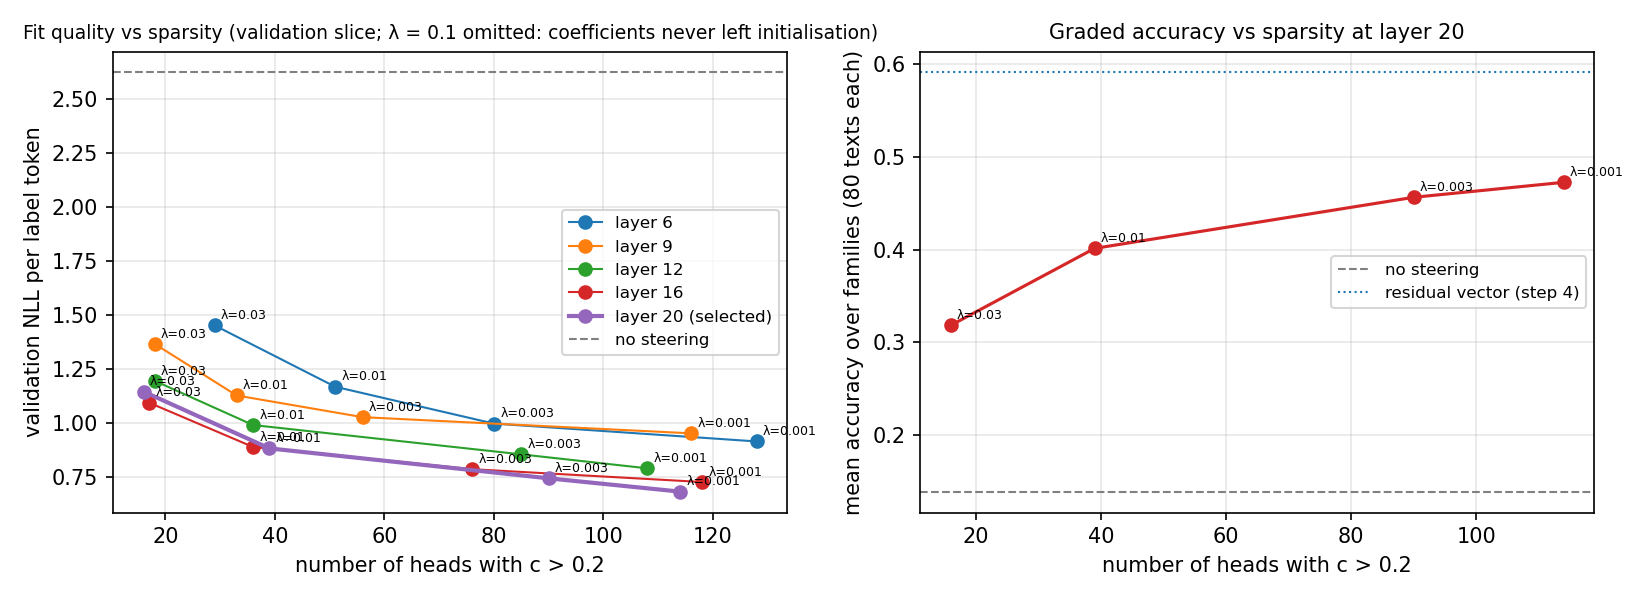
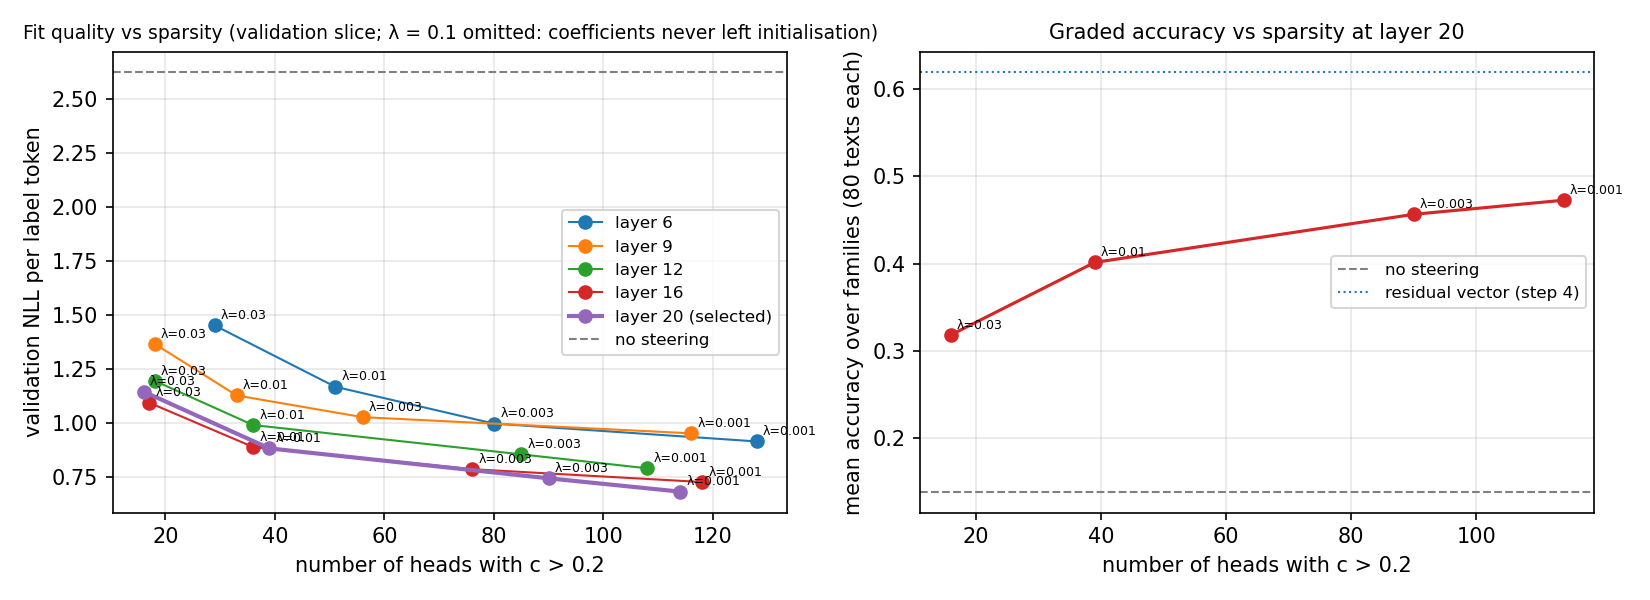
sparse_heads: re-analysed against the paired step-4 residual vectors (figures, csv, README comparison updated)

diff --git a/results/style_translation/sparse_heads/README.md b/results/style_translation/sparse_heads/README.md
@@ -51,45 +51,49 @@ heads. Validation NLL per label token 2.62 (unsteered) → 0.68; test 2.61 → 0
 kept the epoch-0 coefficients, all ≈ 0.5) and are excluded from the curves.
 
 **Accuracy on the 80 held-out texts per family, alt direction** (`sparse_summary.csv`; k4 = 4 in-context
-examples, resid = step-4 residual vector at its per-family best (L, α), both on the same 80 texts):
+examples, resid = step-4 residual mean-difference vector — PAIRED version, 2026-09-10 — at its per-family best (L, α), both on the same 80 texts):
 
 | family | unsteered | sparse 114 heads | unweighted | other family | resid (step 4) | k4 |
 |---|---|---|---|---|---|---|
-| sentence_caps | .00 | .19 | .21 | .00 | .26 | .65 |
-| all_caps | .00 | .06 | .05 | .00 | .10 | .44 |
-| double_space | .00 | .45 | .38 | .00 | .65 | .75 |
-| us_uk | .11 | .64 | .68 | .74 | .60 | .56 |
-| ise_ize | .06 | **.79** | .60 | .24 | .61 | .57 |
-| brit_t_past | .09 | .25 | .19 | .07 | .19 | .24 |
-| whilst | .00 | .75 | .71 | .00 | .88 | .54 |
-| contractions | .36 | .62 | .53 | .29 | .76 | .72 |
-| ampersand | .01 | .55 | .51 | .00 | .82 | .61 |
+| sentence_caps | .00 | .19 | .21 | .00 | .17 | .65 |
+| all_caps | .00 | .06 | .05 | .00 | .03 | .44 |
+| double_space | .00 | .45 | .38 | .00 | .66 | .75 |
+| us_uk | .11 | .64 | .68 | .74 | .61 | .56 |
+| ise_ize | .06 | **.79** | .60 | .24 | .72 | .57 |
+| brit_t_past | .09 | .25 | .19 | .07 | .45 | .24 |
+| whilst | .00 | .75 | .71 | .00 | .90 | .54 |
+| contractions | .36 | .62 | .53 | .29 | .80 | .72 |
+| ampersand | .01 | .55 | .51 | .00 | .81 | .61 |
 | oxford_comma | .61 | .75 | .85 | .71 | .85 | .72 |
-| curly_quotes | .14 | **.36** | .39 | .05 | .23 | .68 |
-| quote_punct | .40 | .57 | .56 | .50 | .62 | .81 |
-| em_dash | .04 | .45 | .45 | .00 | .50 | .65 |
-| ellipsis | .01 | .55 | .68 | .10 | .69 | .68 |
-| num_words | .07 | .25 | .24 | .09 | .71 | .31 |
-| percent_sign | .07 | .75 | .81 | .11 | .84 | .79 |
+| curly_quotes | .14 | **.36** | .39 | .05 | .28 | .68 |
+| quote_punct | .40 | .57 | .56 | .50 | .61 | .81 |
+| em_dash | .04 | .45 | .45 | .00 | .53 | .65 |
+| ellipsis | .01 | .55 | .68 | .10 | .79 | .68 |
+| num_words | .07 | .25 | .24 | .09 | .70 | .31 |
+| percent_sign | .07 | .75 | .81 | .11 | .88 | .79 |
 | ordinal_words | .38 | .51 | .45 | .29 | .74 | .64 |
-| **mean** | .14 | **.50** | .49 | .19 | .59 | .61 |
+| **mean** | .14 | **.50** | .49 | .19 | .62 | .61 |
 
 1. **One shared set of 114 heads, summed and injected once at the cue token, induces the rare
    convention in most families with no example**: mean accuracy .14 → .50 (unweighted indicator sum
    .49, so the learned weights matter little once the set is chosen). It matches or beats 4 in-context
    examples in 5 families (ise_ize .79 vs .57, whilst .75 vs .54, us_uk .64 vs .56, oxford_comma .75
-   vs .72, brit_t_past .25 vs .24) and is within .05 of the per-family-tuned residual vector in 7.
-2. **Versus the residual mean-difference vector (step 4): lower style forcing, better translations.**
-   The sparse heads use the target convention less often (style-only .64 vs .79 averaged over
-   families) but keep the judge rate at the unsteered level (.76 vs .73; unsteered .78). They win
-   clearly on ise_ize (.79 vs .61), curly_quotes (.36 vs .23; unscorable .25 vs .56 — the heads
-   produce the two-token “ more often than the residual vector) and brit_t_past (.25 vs .19), tie on
-   us_uk / all_caps / em_dash / quote_punct / sentence_caps, and lose by > .10 on ampersand (.55 vs
-   .82), num_words (.25 vs .71), ordinal_words (.51 vs .74), double_space (.45 vs .65), contractions,
-   ellipsis and whilst — the symbol / digit conventions, where the residual vector's per-family α = 4
-   push was decisive. Caveat: the residual comparison is per-family tuned (best of 45 (L, α) cells per
-   family) whereas the sparse set is one shared vector at one layer with α = 1 and was chosen by
-   validation NLL, not by accuracy.
+   vs .72, brit_t_past .25 vs .24) and is within .05 of the per-family-tuned residual vector in 4
+   (sentence_caps, all_caps, us_uk, quote_punct).
+2. **Versus the residual mean-difference vector (step 4, paired vectors): lower style forcing, better
+   translations, lower accuracy.** Mean accuracy .50 vs .62 (residual) on the same 80 texts. The sparse
+   heads use the target convention less often (style-only .64 vs .82 averaged over families) but keep
+   the judge rate at the unsteered level (.76 vs .72; unsteered .78). They win on ise_ize (.79 vs .72)
+   and curly_quotes (.36 vs .28; unscorable .25 vs .56 — the heads produce the two-token “ more often
+   than the residual vector), tie within .05 on sentence_caps / all_caps / us_uk / quote_punct, and lose
+   by > .10 on double_space (.45 vs .66), brit_t_past (.25 vs .45), whilst (.75 vs .90), contractions
+   (.62 vs .80), ampersand (.55 vs .81), ellipsis (.55 vs .79), num_words (.25 vs .70), percent_sign
+   (.75 vs .88) and ordinal_words (.51 vs .74) — the symbol / digit conventions and the two families
+   whose paired residual vector improved most. Caveat: the residual comparison is per-family tuned
+   (best of 45 (L, α) cells per family) whereas the sparse set is one shared vector at one layer with
+   α = 1 and was chosen by validation NLL, not by accuracy. (Against the earlier unpaired residual
+   vectors the residual mean was .59 and brit_t_past was a sparse-heads win, .25 vs .19; see git
+   history before 2026-09-10.)
 3. **Sparsity trades accuracy smoothly.** Graded accuracy at layer 20 (mean over families,
    `heads_vs_accuracy.png`): 114 heads .47, 90 heads .46, 39 heads .40, 16 heads .32 (unsteered .14;
    the 114-head point re-sampled with other seeds gives .50 in the main run, so ±.03 is seed noise).
@@ -121,4 +125,7 @@ examples, resid = step-4 residual vector at its per-family best (L, α), both on
 - Caveats: (i) one shared head set for all 17 families — per-family fits were not run; (ii) α fixed
   at 1 (the coefficients set the scale) — no α sweep; (iii) selection by validation NLL with a 0.02-nat
   tolerance picks the densest fit; the accuracy curve shows 90 heads within .02 of it; (iv) the
-  residual-vector reference inherits step 4's selection optimism (screen on 50 texts incl. these).
+  residual-vector reference inherits step 4's selection optimism (screen on 50 texts incl. these);
+  (v) the residual reference is the PAIRED step-4 vector (2026-09-10; `results/style_translation/steering/`),
+  re-analysed with `sparse_heads_analyze.py` on 2026-09-10 — the sparse head means themselves are
+  alt-correct-only means on the 120 fit texts (no pairing applies: they are not a nat−alt difference).

diff --git a/WORKLOG.md b/WORKLOG.md
@@ -9187,3 +9187,4 @@ last-bit BLAS/SVD differences vs the 2026-09-03 file, but not verifiable (old co
 **Lessons:** (1) always pair the two pools of a mean-difference vector on (item, k) — the unpaired k skew (nat 15–20 % k = 0, alt ≈ 0) cost reliability without changing the headline; (2) a deterministic override of an LLM judge must be scoped to the judge's failure path, or it silently changes the metric on a whole family; (3) `ssh host "setsid job &"` keeps the ssh session open until the job ends — harmless, but launch with `-f` or accept the hang.
 
 **Next:** none pending. Open questions for the user: count ‘ ’ as curly? lower-α judged confirm for sentence_caps/all_caps? `sparse_heads_analyze.py` (step 5) now compares against the paired confirm/best_config (its README numbers were computed against the unpaired ones).
+**Addendum 2026-09-10 — sparse_heads re-analysed against the PAIRED step-4 vectors (user request):** `sparse_heads_analyze.py` re-run (reads steering/confirm + best_config.csv); sparse_summary.{png,csv}, heads_vs_accuracy.png, records.npz regenerated; README table/finding 2/caveats updated. Residual reference mean .59 → .62; brit_t_past is no longer a sparse-heads win (.25 vs .45); sparse wins remain ise_ize and curly_quotes; mean sparse .50 unchanged (its own arms did not change).
